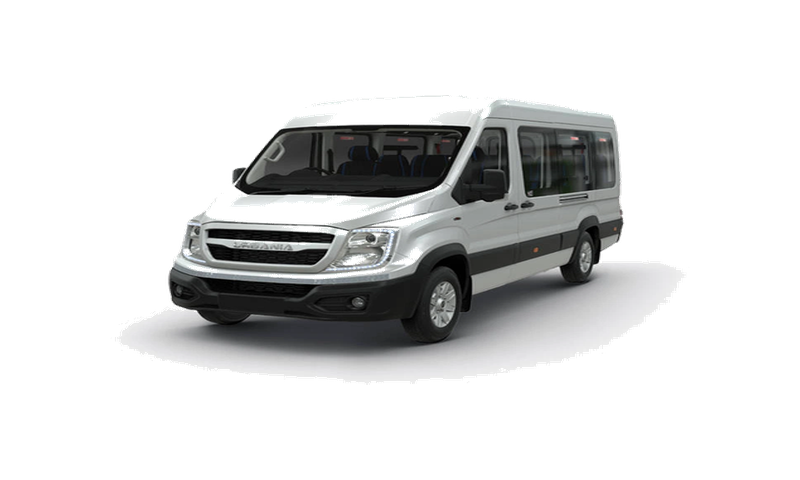
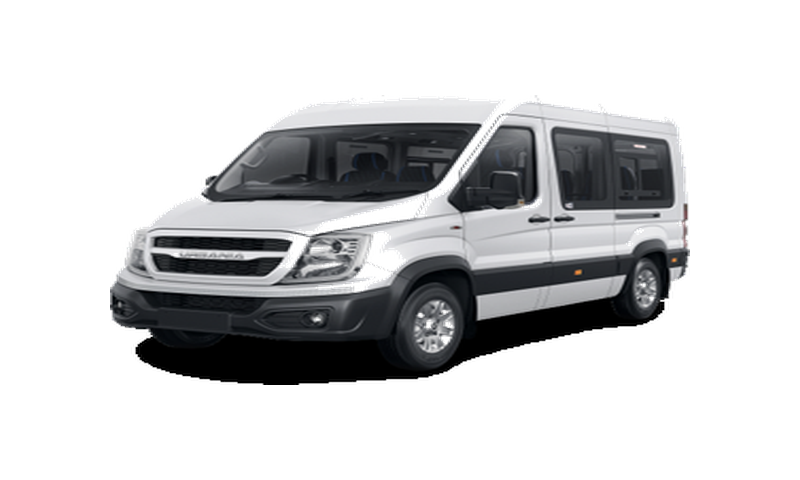
Standardize Force Urbania 9-Seater asset across front page fleet catalog

Changed region(s): [[0.125, 0.1875, 0.875, 0.8125]]

diff --git a/index.html b/index.html
@@ -1006,7 +1006,7 @@
         <div class="fleet-panel" data-panel="mpv">
           <div class="fleet-card">
             <div class="fleet-img-box">
-              <img src="https://www.suhalayatravels.com/assets/img/cars/innova-commuter1.png" alt="Force Urbania - 9 Seater">
+              <img src="/assets/images/force-urbania.png" alt="Force Urbania - 9 Seater">
               <span class="fleet-category-badge">Multi Passenger</span>
             </div>
             <div class="fleet-card-body">
@@ -1028,7 +1028,7 @@
         <div class="fleet-panel" data-panel="mpv">
           <div class="fleet-card">
             <div class="fleet-img-box">
-              <img src="https://www.suhalayatravels.com/assets/img/cars/innova-commuter1.png" alt="Force Urbania - 12 Seater">
+              <img src="/assets/images/force-urbania.png" alt="Force Urbania - 12 Seater">
               <span class="fleet-category-badge">Multi Passenger</span>
             </div>
             <div class="fleet-card-body">
@@ -1050,7 +1050,7 @@
         <div class="fleet-panel" data-panel="mpv">
           <div class="fleet-card">
             <div class="fleet-img-box">
-              <img src="https://www.suhalayatravels.com/assets/img/cars/innova-commuter1.png" alt="Force Urbania - 16 Seater">
+              <img src="/assets/images/force-urbania.png" alt="Force Urbania - 16 Seater">
               <span class="fleet-category-badge">Multi Passenger</span>
             </div>
             <div class="fleet-card-body">
